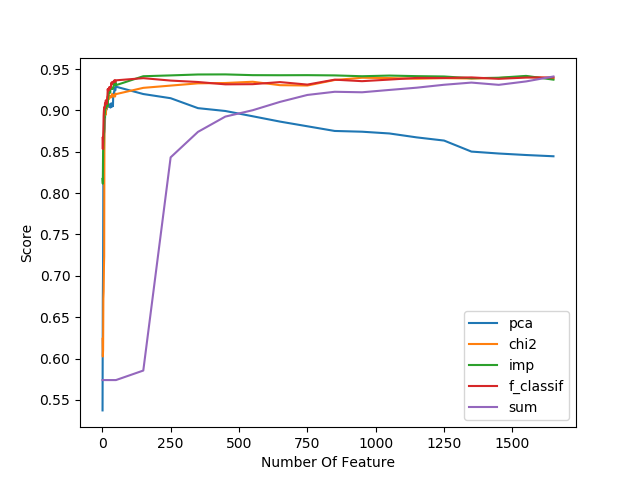
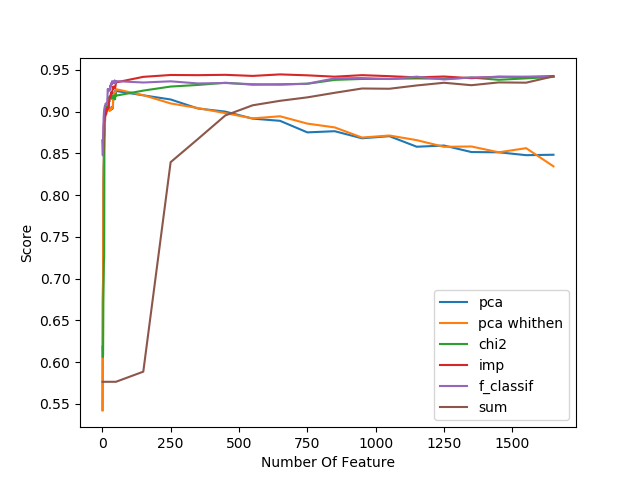
update

diff --git a/Cytomine-python-client-fork/test.py b/Cytomine-python-client-fork/test.py
@@ -30,6 +30,7 @@ from cytomine.spectral.extractor import Extractor
 import matplotlib.pyplot as plt
 plt.switch_backend("agg")
 import numpy as np
+import os
 #import sys
 #import pickle
 
@@ -38,13 +39,17 @@ cytomine_public_key="XXX"
 cytomine_private_key="XXX"
 id_project=0
 
-n_jobs = 3
+n_jobs = 24
 n_estimators = 100
 test = .2
 validation = .1
 train = test + validation
 
-ext = Extractor("extractedData.save")
+filename = "extractedData.save"
+save_path = "./colors"
+
+os.makedirs(save_path,exist_ok=True)
+ext = Extractor(filename)
 try:
     print("load data from file")
     ext.readFile()
@@ -56,7 +61,7 @@ except FileNotFoundError:
       ext.loadDataFromCytomine(id_project=id_project)
       print("Saving data to file for later uses")
       ext.writeFile()
-
+nb_feature = ext.numFeature
 print("fit_transform pca")
 pca = PCA().fit(ext.X)
 print("transform")
@@ -143,47 +148,47 @@ def test_comparaisonFeatureImportance():
 
     best = {}
 
-    for i in sorted(list(set(list(range(0,1600,100))+list(range(1600,1650,1))))):
-        print("\nScores with best {} features/components:\n".format(1650-i))
-        n_feature.append(1650-i)
+    for i in sorted(list(set(list(range(0,1600,100))+list(range(1600,nb_feature,1))))):
+        print("\nScores with best {} features/components:\n".format(nb_feature-i))
+        n_feature.append(nb_feature-i)
 
         print("Scores before PCA:")
-        etc.fit(train_SampleX[:,imp[:int(1650-i)]],train_SampleY)
-        score = etc.score(test_SampleX[:,imp[:int(1650-i)]],test_SampleY)
+        etc.fit(train_SampleX[:,imp[:int(nb_feature-i)]],train_SampleY)
+        score = etc.score(test_SampleX[:,imp[:int(nb_feature-i)]],test_SampleY)
         if best.get("imp",(0,0))[1] < score:
-          best["imp"] = (int(1650-i),score,imp)
+          best["imp"] = (int(nb_feature-i),score,imp)
         imp_score.append(score)
         print("\t -imp :\t{}".format(score))
-        etc.fit(train_SampleX[:,f_c[:int(1650-i)]],train_SampleY)
-        score = etc.score(test_SampleX[:,f_c[:int(1650-i)]],test_SampleY)
+        etc.fit(train_SampleX[:,f_c[:int(nb_feature-i)]],train_SampleY)
+        score = etc.score(test_SampleX[:,f_c[:int(nb_feature-i)]],test_SampleY)
         if best.get("f_c",(0,0))[1] < score:
-          best["f_c"] = (int(1650-i),score,f_c)
+          best["f_c"] = (int(nb_feature-i),score,f_c)
         f_c_score.append(score)
         print("\t -f_classif :\t{}".format(score))
-        etc.fit(train_SampleX[:,chi2[:int(1650-i)]],train_SampleY)
-        score = etc.score(test_SampleX[:,chi2[:int(1650-i)]],test_SampleY)
+        etc.fit(train_SampleX[:,chi2[:int(nb_feature-i)]],train_SampleY)
+        score = etc.score(test_SampleX[:,chi2[:int(nb_feature-i)]],test_SampleY)
         if best.get("chi2",(0,0))[1] < score:
-          best["chi2"] = (int(1650-i),score,chi2)
+          best["chi2"] = (int(nb_feature-i),score,chi2)
         chi2_score.append(score)
         print("\t -chi2 :\t{}".format(score))
-        etc.fit(train_SampleX[:,sumv[:int(1650-i)]],train_SampleY)
-        score = etc.score(test_SampleX[:,sumv[:int(1650-i)]],test_SampleY)
+        etc.fit(train_SampleX[:,sumv[:int(nb_feature-i)]],train_SampleY)
+        score = etc.score(test_SampleX[:,sumv[:int(nb_feature-i)]],test_SampleY)
         if best.get("sum",(0,0))[1] < score:
-          best["sum"] = (int(1650-i),score,sumv)
+          best["sum"] = (int(nb_feature-i),score,sumv)
         sum_score.append(score)
         print("\t -Sum :\t{}".format(score))
 
-        etc.fit(train_SamplePCA_X[:,:int(1650-i)],train_SampleY)
-        score = etc.score(test_SamplePCA_X[:,:int(1650-i)],test_SampleY)
+        etc.fit(train_SamplePCA_X[:,:int(nb_feature-i)],train_SampleY)
+        score = etc.score(test_SamplePCA_X[:,:int(nb_feature-i)],test_SampleY)
         if best.get("pca",(0,0))[1] < score:
-          best["pca"] = (int(1650-i),score,None)
+          best["pca"] = (int(nb_feature-i),score,None)
         pca_score.append(score)
         print("Score after PCA: {}".format(score))
 
-        etc.fit(train_SamplePCA_w_X[:,:int(1650-i)],train_SampleY)
-        score = etc.score(test_SamplePCA_w_X[:,:int(1650-i)],test_SampleY)
+        etc.fit(train_SamplePCA_w_X[:,:int(nb_feature-i)],train_SampleY)
+        score = etc.score(test_SamplePCA_w_X[:,:int(nb_feature-i)],test_SampleY)
         if best.get("pca_w",(0,0))[1] < score:
-          best["pca_w"] = (int(1650-i),score,None)
+          best["pca_w"] = (int(nb_feature-i),score,None)
         pca_w_score.append(score)
         print("Score after PCA with whiten: {}".format(score))
 
@@ -213,7 +218,7 @@ def test_comparaisonFeatureImportance():
     plt.ylabel("Score")
     plt.xlabel("Number Of Feature")
     plt.legend()
-    plt.savefig("comparaison_feature_imp_{}.png".format(n_estimators))
+    plt.savefig(os.path.join(save_path,"comparaison_feature_imp_{}.png").format(n_estimators))
     plt.close()
 
     return pca_score,pca_w_score, imp_score, f_c_score, chi2_score, sum_score, n_feature
@@ -236,7 +241,7 @@ def test_DimensionReduction():
   plt.plot(n_component,counts)
   plt.ylabel("Explained Variance Ratio")
   plt.xlabel("Number Of Principal Components")
-  plt.savefig("explained_variance_ratio_pca.png")
+  plt.savefig(os.path.join(save_path,"explained_variance_ratio_pca.png"))
   plt.close()
   return counts
 
@@ -296,13 +301,13 @@ def test_depth():
         if score >= best_pca_w[1]:
           best_pca_w = (i+1,score,etc.score(val_SamplePCA_w_X,val_SampleY))
 
-    plt.plot(range(1,depth+1),scores,"raw data")
-    plt.plot(range(1,depth+1),scores_pca,"PCA")
-    plt.plot(range(1,depth+1),scores_pca_w,"PCA whiten")
+    plt.plot(range(1,depth+1),scores,label="raw data")
+    plt.plot(range(1,depth+1),scores_pca,label="PCA")
+    plt.plot(range(1,depth+1),scores_pca_w,label="PCA whiten")
     plt.ylabel("Score")
     plt.xlabel("Max Depth")
     plt.legend()
-    plt.savefig("score_max_depth.png")
+    plt.savefig(os.path.join(save_path,"score_max_depth.png_{}".format(n_estimators)))
     plt.close()
     print("Raw: Best score with a max depth of {} (test set {}):\t{} on the validation set".format(*best))
     print("PCA: Best score with a max depth of {} (test set {}):\t{} on the validation set".format(*best_pca))
@@ -349,7 +354,8 @@ if __name__ == '__main__':
         print("ExtraTreesClassifier with {} estimators".format(n_estimators))
         etc = ETC(n_jobs=n_jobs,n_estimators=n_estimators)
         test_comparaisonFeatureImportance()
-        counts = test_DimensionReduction()
+
         test_depth()
         test_Spaciality()
 
+    counts = test_DimensionReduction()

diff --git a/Cytomine-python-client-fork/cytomine/spectral/extractor.py b/Cytomine-python-client-fork/cytomine/spectral/extractor.py
@@ -200,7 +200,7 @@ class Extractor:
         " read the annotations of a list of imagegroup from a project
         """
 
-        if predict_terms_list is None and id_project is None:
+        if predict_terms_list is None and id_project is not None:
             terms = TermCollection(filters={'project':id_project}).fetch()
             predict_terms_list = {term.id for term in terms}
             nb_annotation_term = {term.id:0 for term in terms}
